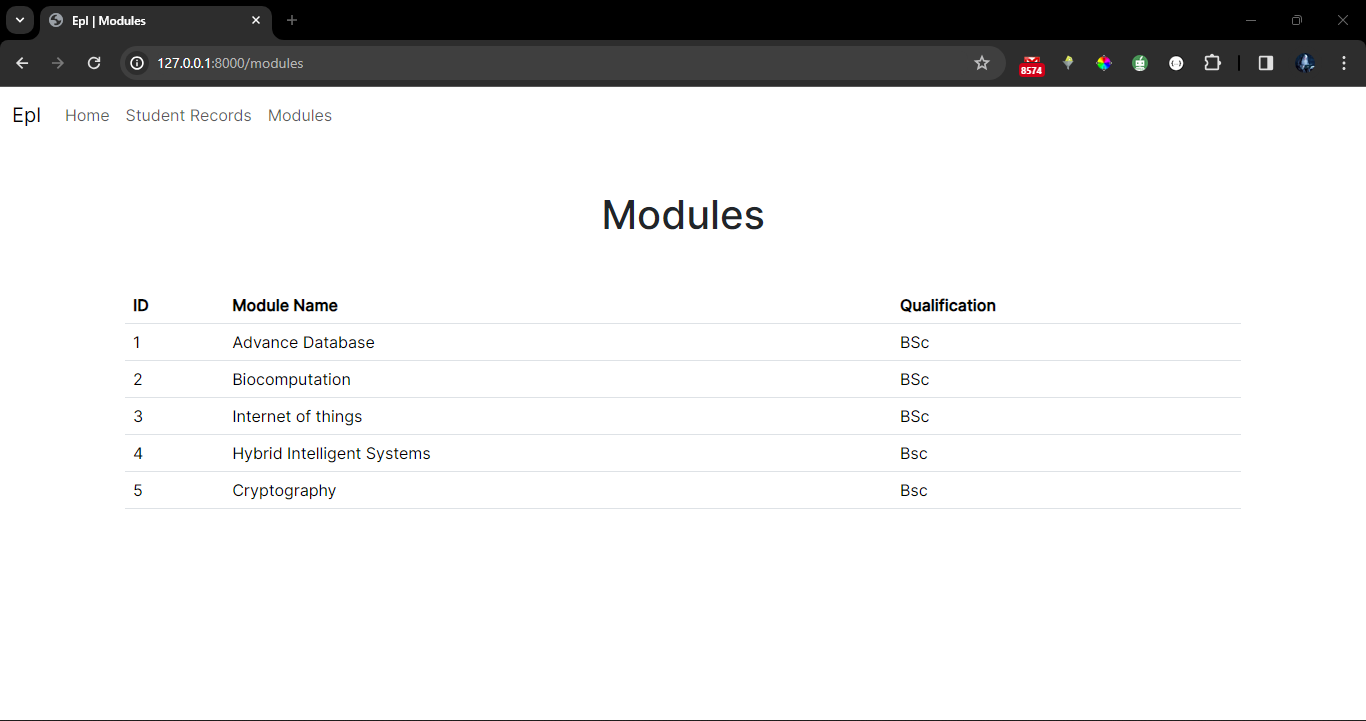
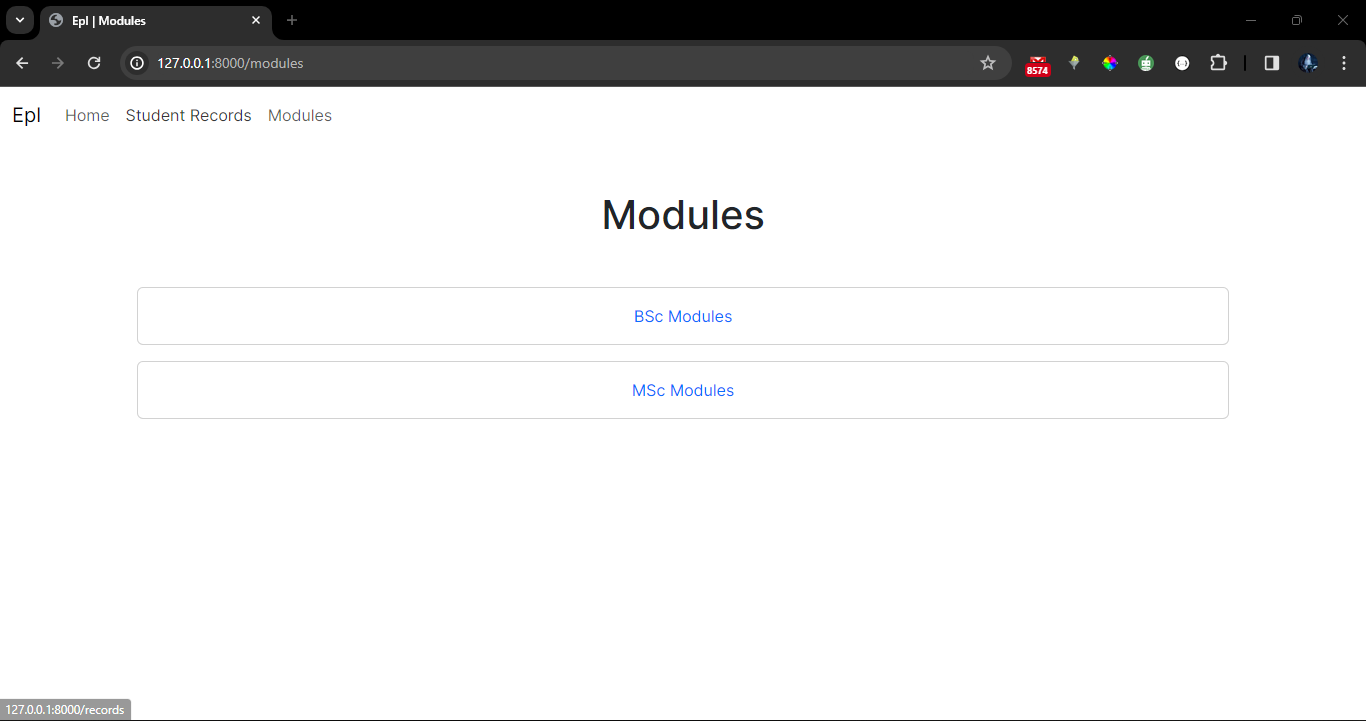
updated...

diff --git a/resources/views/modules.blade.php b/resources/views/modules.blade.php
@@ -1,4 +1,4 @@
-<head> 
+<head>
   <title>Epl | Modules</title>
 </head>
 
@@ -9,29 +9,18 @@
   <h1>
     Modules
   </h1>
+  <div class="container text-center mt-5">
+    
+    <div class="card p-3 mb-3">
+      <a href="#">BSc Modules</a>
+    </div>
+
+    <div class="card p-3">
+      <a href="#">MSc Modules</a>
+    </div>
+
+  </div>
 </div>
 
-<div class="container">
-  <table class="table">
-    <thead>
-      <tr>
-        <th scope="col">ID</th>
-        <th scope="col">Module Name</th>
-        <th scope="col">Qualification</th>
-      </tr>
-    </thead>
 
-
-    <tbody>
-      @foreach($moduleData as $moduleDatas)
-      <tr>
-        <td>{{$moduleDatas->id}}</td>
-        <td>{{$moduleDatas->module_name}}</td>
-        <td>{{$moduleDatas->qualification}}</td>
-      </tr>
-      @endforeach
-    </tbody>
-
-  </table>
-</div>
 @endsection

diff --git a/resources/views/layouts/app.blade.php b/resources/views/layouts/app.blade.php
@@ -19,7 +19,11 @@
       display: none;
     }
 
-    .displayLink {
+    a {
+      text-decoration: none;
+    }
+    
+    /* .displayLink {
       text-decoration: none;
       color: black;
     }
@@ -27,15 +31,7 @@
     .displayLink:hover {
       text-decoration: underline;
       color: red;
-    }
-
-    a .nav-link:hover {
-      text-decoration: underline;
-    }
-    
-    ul {
-      list-style-type: none;
-    }
+    } */
   </style>
 </head>
 

diff --git a/routes/web.php b/routes/web.php
@@ -23,8 +23,11 @@ Route::get('index', function () {
 // Records Page
 Route::get('records',[StudentController::class,'showData']);
 
-// Modules page
-Route::get('modules', [ModuleController::class, 'modulesData']);
+Route::get('modules', function () {
+    return view('modules');
+});
+
+
 
 // Route for table row 
 // Route::get('/show/{id}', [StudentController::class, 'displayData'])->name('display');

diff --git a/app/Http/Controllers/ModuleController.php b/app/Http/Controllers/ModuleController.php
@@ -8,10 +8,5 @@ use App\Models\Module;
 
 class ModuleController extends Controller
 {
-    function modulesData() {
-        $moduleData = Module::all();
-
-        return view('modules', compact('moduleData'));
-
-    }
+    
 }
